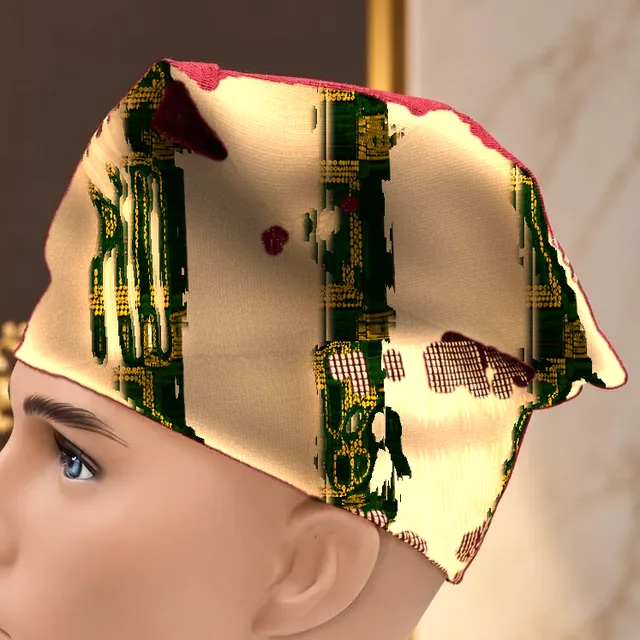
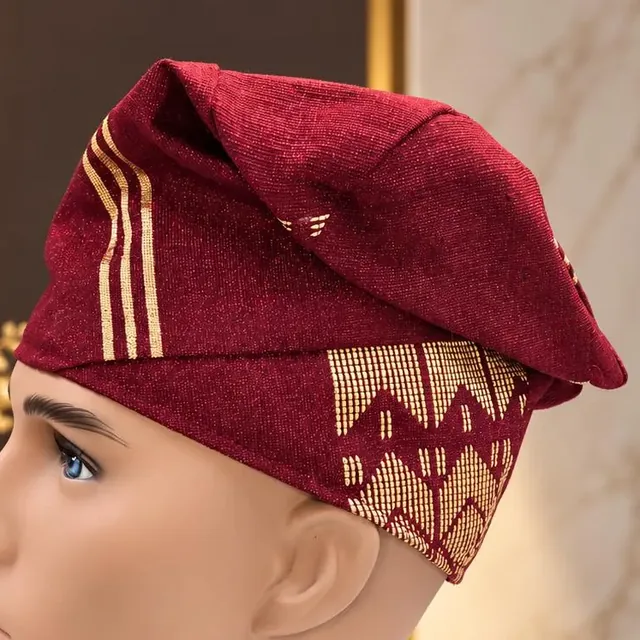
Restore the Traditional Hat photo to the owner upload.
The fila is cropped and saved as WebP only. The bead and stick photos are unchanged.

diff --git a/src/utils/traditionalAccessoryImages.ts b/src/utils/traditionalAccessoryImages.ts
@@ -7,9 +7,7 @@ export const TRADITIONAL_ACCESSORY_IMAGE_DIR = "/images/accessories";
  * public/images/accessories/ so img-src 'self' can load them.
  *
  * Owner-supplied brand images, not stock photographs.
- * Traditional Hat — fila. The cap cloth is the Step 1 kaftan textile
- * public/images/garments/ankara-kaftan-short-sleeve.webp, shaded by the
- * original folds.
+ * Traditional Hat — owner fila photo, cropped only. No pattern is applied.
  * Traditional Bead — coral bead sets. The wooden stand bases use that
  * same Step 1 textile.
  * Traditional Stick — gold horse-head walking cane, unchanged.
